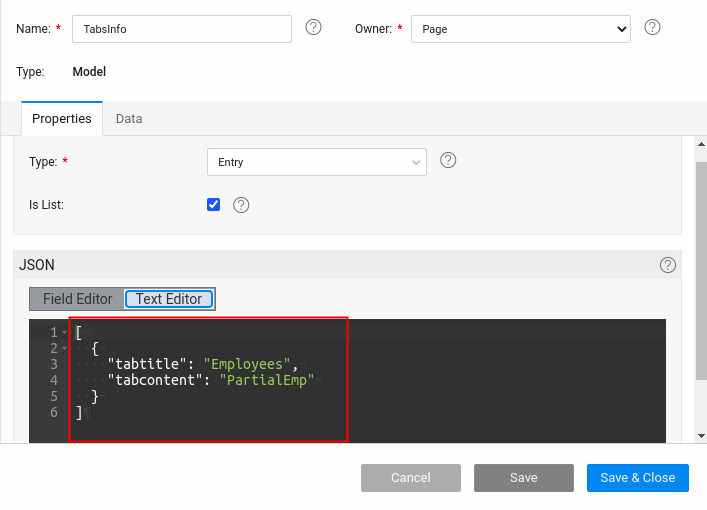
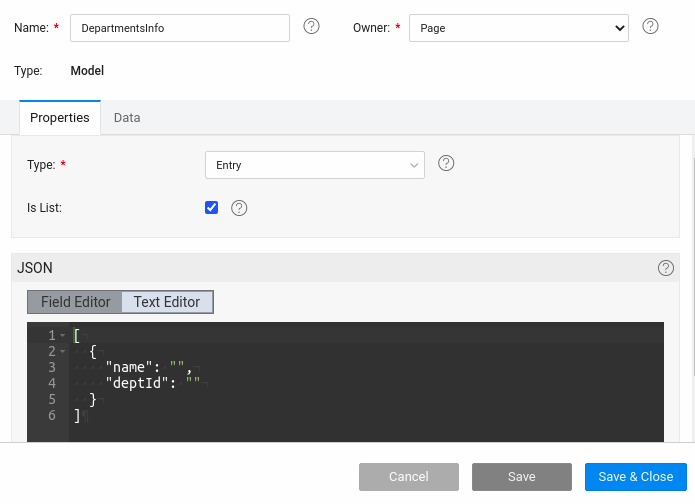
Updated Usecase for tabs

diff --git a/learn/how-tos/dynamic-tabs-accordions.md b/learn/how-tos/dynamic-tabs-accordions.md
@@ -11,9 +11,13 @@ Tab is an essential navigation element of every web application. WaveMaker provi
 
 Now you can bind the dataset to the tabs widget. Based on the dataset, a number of Tab panes are generated.
 
+:::note
+If static values are to be given for the **dataset value**(ex: comma seperated values) it is better to use static tab widget. For more information, see [Static Tabs](/learn/app-development/widgets/container/tabs)
+:::
+
 ### Tabs Usecase
 
-Dynamically open new tab pages based on user interaction. When you click the **Add New Employee** or **edit** button beneath the existing records, the editing should occur in separate tab pages that get added dynamically.
+Dynamically open new tab pages based on user interaction. When you select a row in the  datatable, the details of respective department employees are displayed in separate tab pages that get added dynamically.
 
 [![tabs preview](/learn/assets/dynamicwidgets/tabspreview.gif)](/learn/assets/dynamicwidgets/tabspreview.gif)
 
@@ -21,55 +25,64 @@ Dynamically open new tab pages based on user interaction. When you click the **A
 
 - Navigate to the Databases section and import **Sample HR database**. For more information, see [Working with Databases](/learn/app-development/services/database-services/working-with-databases/).
 
-#### 2. Create a Partial and Configure Live Form
+#### 2. Create a Partial and Configure Card Widget
 
-- Create a [Partial](/learn/app-development/ui-design/page-concepts/partial-pages) page and name it **PartialNewEmp**.
-- Drag and drop LiveForm and bind it to the **Employee** Entity present in the database. For more information, see [Configure LiveForm](/learn/app-development/widgets/datalive/live-form/live-form-basic-usage).
+- Create a [Partial](/learn/app-development/ui-design/page-concepts/partial-pages) page and name it **PartialEmployee**.
 
-#### 3. Create a Model Variable
+- Drag and drop Card and bind it to the **Employee** Entity present in the database and configure Card Widget. For more information, see [Configure Card](/learn/app-development/widgets/datalive/cards/card-basic-usage).
 
-Create a Page and create a Model Variable with an Entity type with the below dataset.
+- Add partial param for the partial page as deptId with integer type.
+[![partial page](/learn/assets/dynamicwidgets/partialpage.png)](/learn/assets/dynamicwidgets/partialpage.png)
 
-[![](/learn/assets/dynamicwidgets/modelvar.png)](/learn/assets/dynamicwidgets/modelvar.png)
+- From the variable dialog, for the **Employee** variable under FilterCriteria bind the deptId to the `pageParams.deptId`.
 
-#### 4. Drag and Drop Tab Widget
+#### 3. Create a Page and Model Variable
 
-- Drag and drop the Tab widget.
-- In the **Properties** panel, change the **Type** property to **Dynamic**.
-- Now, bind the **Dataset Value** property in the **Properties** panel to the Model Variable dataset (Variable created in Step3).
+- Create a Page and create a Model Variable with an Entity type with the below dataset.
 
-#### 5. Select and Bind
+[![model variable](/learn/assets/dynamicwidgets/modelvar.png)](/learn/assets/dynamicwidgets/modelvar.png)
 
-- Select **Tab Pane** and set the **Content** property to the created `modelVariable -> dataset -> tabcontent`.
-- Bind **Title** to the `modelVariable -> dataset -> tabtitle`.
+#### 4. Configure Datatable
 
-#### 6. Create Another Partial
+- Drag and drop datatable and set the datasource as **Department** Entity present in the database. For more information, see [Configure Datatable](/learn/app-development/widgets/datalive/datatable/data-table-basic-usage)
 
-- Create another Partial with the name **PartialEmp**.
-- Drag and drop the DataTable.
-- Configure the DataTable with the **Employee**. The Entity data source is present in the database.
-- Add a button in the Partial.
-- And, `onButton` click add another object to the Model Variable (created in Step3) to add the Tab Pane on button click.
+#### 5. Configure Dynamic Tab
 
-For more information, see [AddItem in Model Variable](/learn/app-development/variables/model-variable#additemvalue-index).
+- Drag and drop the Tab widget. Under **Properties** panel, change the **Type** property to **Dynamic**.
+
+- Now, bind the **Dataset Value** property in the **Properties** panel to the Model Variable dataSet (Variable created in Step3). Also bind the **Default pane index** proeprty to the `Variables.DepartmentsInfo.dataSet.length`.
+
+- Select **Tab Pane** and bind the **Title** property to the model variable `Variables.DepartmentsInfo.dataSet[$i].name`
+
+- Set the **content** property of the tabpane to the created partial page (created in Step2) and also bind the **deptId** to `Variables.DepartmentsInfo.dataSet[$i].deptId`
+
+#### 6. Add selected department info to the model
+
+- Select Department datatable present in the page and configure **onRowSelect** Event as JavaScript and add below code
 
 ```js
-Partial.button1Click = function($event, widget) {
-    Partial.App.activePage.Variables.TabsInfo.addItem({
-        "tabtitle": "Add Employee",
-        "tabcontent": "PartialNewEmp"
-    }, 1);
+Page.DepartmentTable1Rowselect = function($event, widget, row) {
+    var flag = false;
+    Page.Variables.DepartmentsInfo.dataSet.find(function(item) {
+        if (row.name == item.name) {
+            flag = true;
+        }
+    });
+
+    if (!flag) {
+        Page.Variables.DepartmentsInfo.addItem({
+            name: row.name,
+            deptId: row.deptId
+        });
+    }
 };
 ```
-
-:::note
-Adding the above object at index 1 in the Model Variable.
-:::
 
 #### 7. Preview the App
 
 - Click Preview.
-- When you click the **Add New Employee** button beneath the existing records, a separate Tab Pane gets added dynamically to add an Employee record.
+
+- When you select the rows in the department table, a separate Tab Pane gets added dynamically to view Employee record.
 
 :::note
 You can also remove the Tab Panes added by removing the item from the Model Variable. For more information, see [Remove Item in Model Variable](/learn/app-development/variables/model-variable#removeitemindex).
@@ -81,53 +94,7 @@ An Accordion is an interactive component consisting of panels with headers and c
 
 It is possible to create a fully dynamic and flexible Accordion without much effort. Now, you can bind the dataset to the Accordion widget. Based on the dataset, a number of Accordion Panes will generate.
 
-### Accordion Usecase
-
-Display list of departments as Accordion Panes and their respective employee details as the Accordion Pane content.
-
-[![preview](/learn/assets/dynamicwidgets/accordionpreview.gif)](/learn/assets/dynamicwidgets/accordionpreview.gif)
-
-#### 1. Import a DB
-
-- Navigate to the Databases section and import **Sample HR database**. For more information, see [Working with Databases](/learn/app-development/services/database-services/working-with-databases/).
-
-#### 2. Create a Partial
-
-- Create a [Partial](/learn/app-development/ui-design/page-concepts/partial-pages) page.
-- Create a Variable for the **Employee** Entity present in the database. For more information, see [Creating Variable](/learn/app-development/variables/database-crud/).
-
-#### 3. Add a Page Parameter
-
-Add a page param to the Partial page. See the below image for reference.
-
-[![partial page](/learn/assets/dynamicwidgets/partialpage.png)](/learn/assets/dynamicwidgets/partialpage.png)
-
-#### 4. Accessing Variable
-
-- Open the Variable created in Step2.
-- Bind the `deptId` field in the Variable to the added Partial page param (the param added in Step3).
-
-[![variable binding](/learn/assets/dynamicwidgets/variablebind.png)](/learn/assets/dynamicwidgets/variablebind.png)
-
-#### 5. Create a Page and Variable
-
-- Create a Page.
-- Create Variable for the **Department** Entity present in the database. For more information, see [Creating Variable](/learn/app-development/variables/database-crud/).
-
-#### 6. Drag and Drop Accordion Widget
-
-- Drag and drop Accordion widget.
-- In the **Properties** panel, change the **Type** property to **Dynamic**.
-- Bind the **Dataset Value** property in the Properties panel to the Department Variable dataset (Variable created in Step2).
-
-#### 7. Select and Bind
-
-- Select Accordion Pane and set the **Content** property to the created Partial page (the Partial created in Step2).
-- Bind the Partial param to the `deptId` of the Department Variable dataset.
-- Also, bind the **Title** property of the Tab Pane to the name of the Department Variable dataset.
-
-#### 8. Preview the App
-
-- Click Preview.
-- You can see that all the departments are displayed as Accordion Pane titles, and the respective Employee's as the Accordion Pane content.
+:::note
+The above usecase of dynamic tabs can be implemented for dynamic accordions as well.
+:::
 
